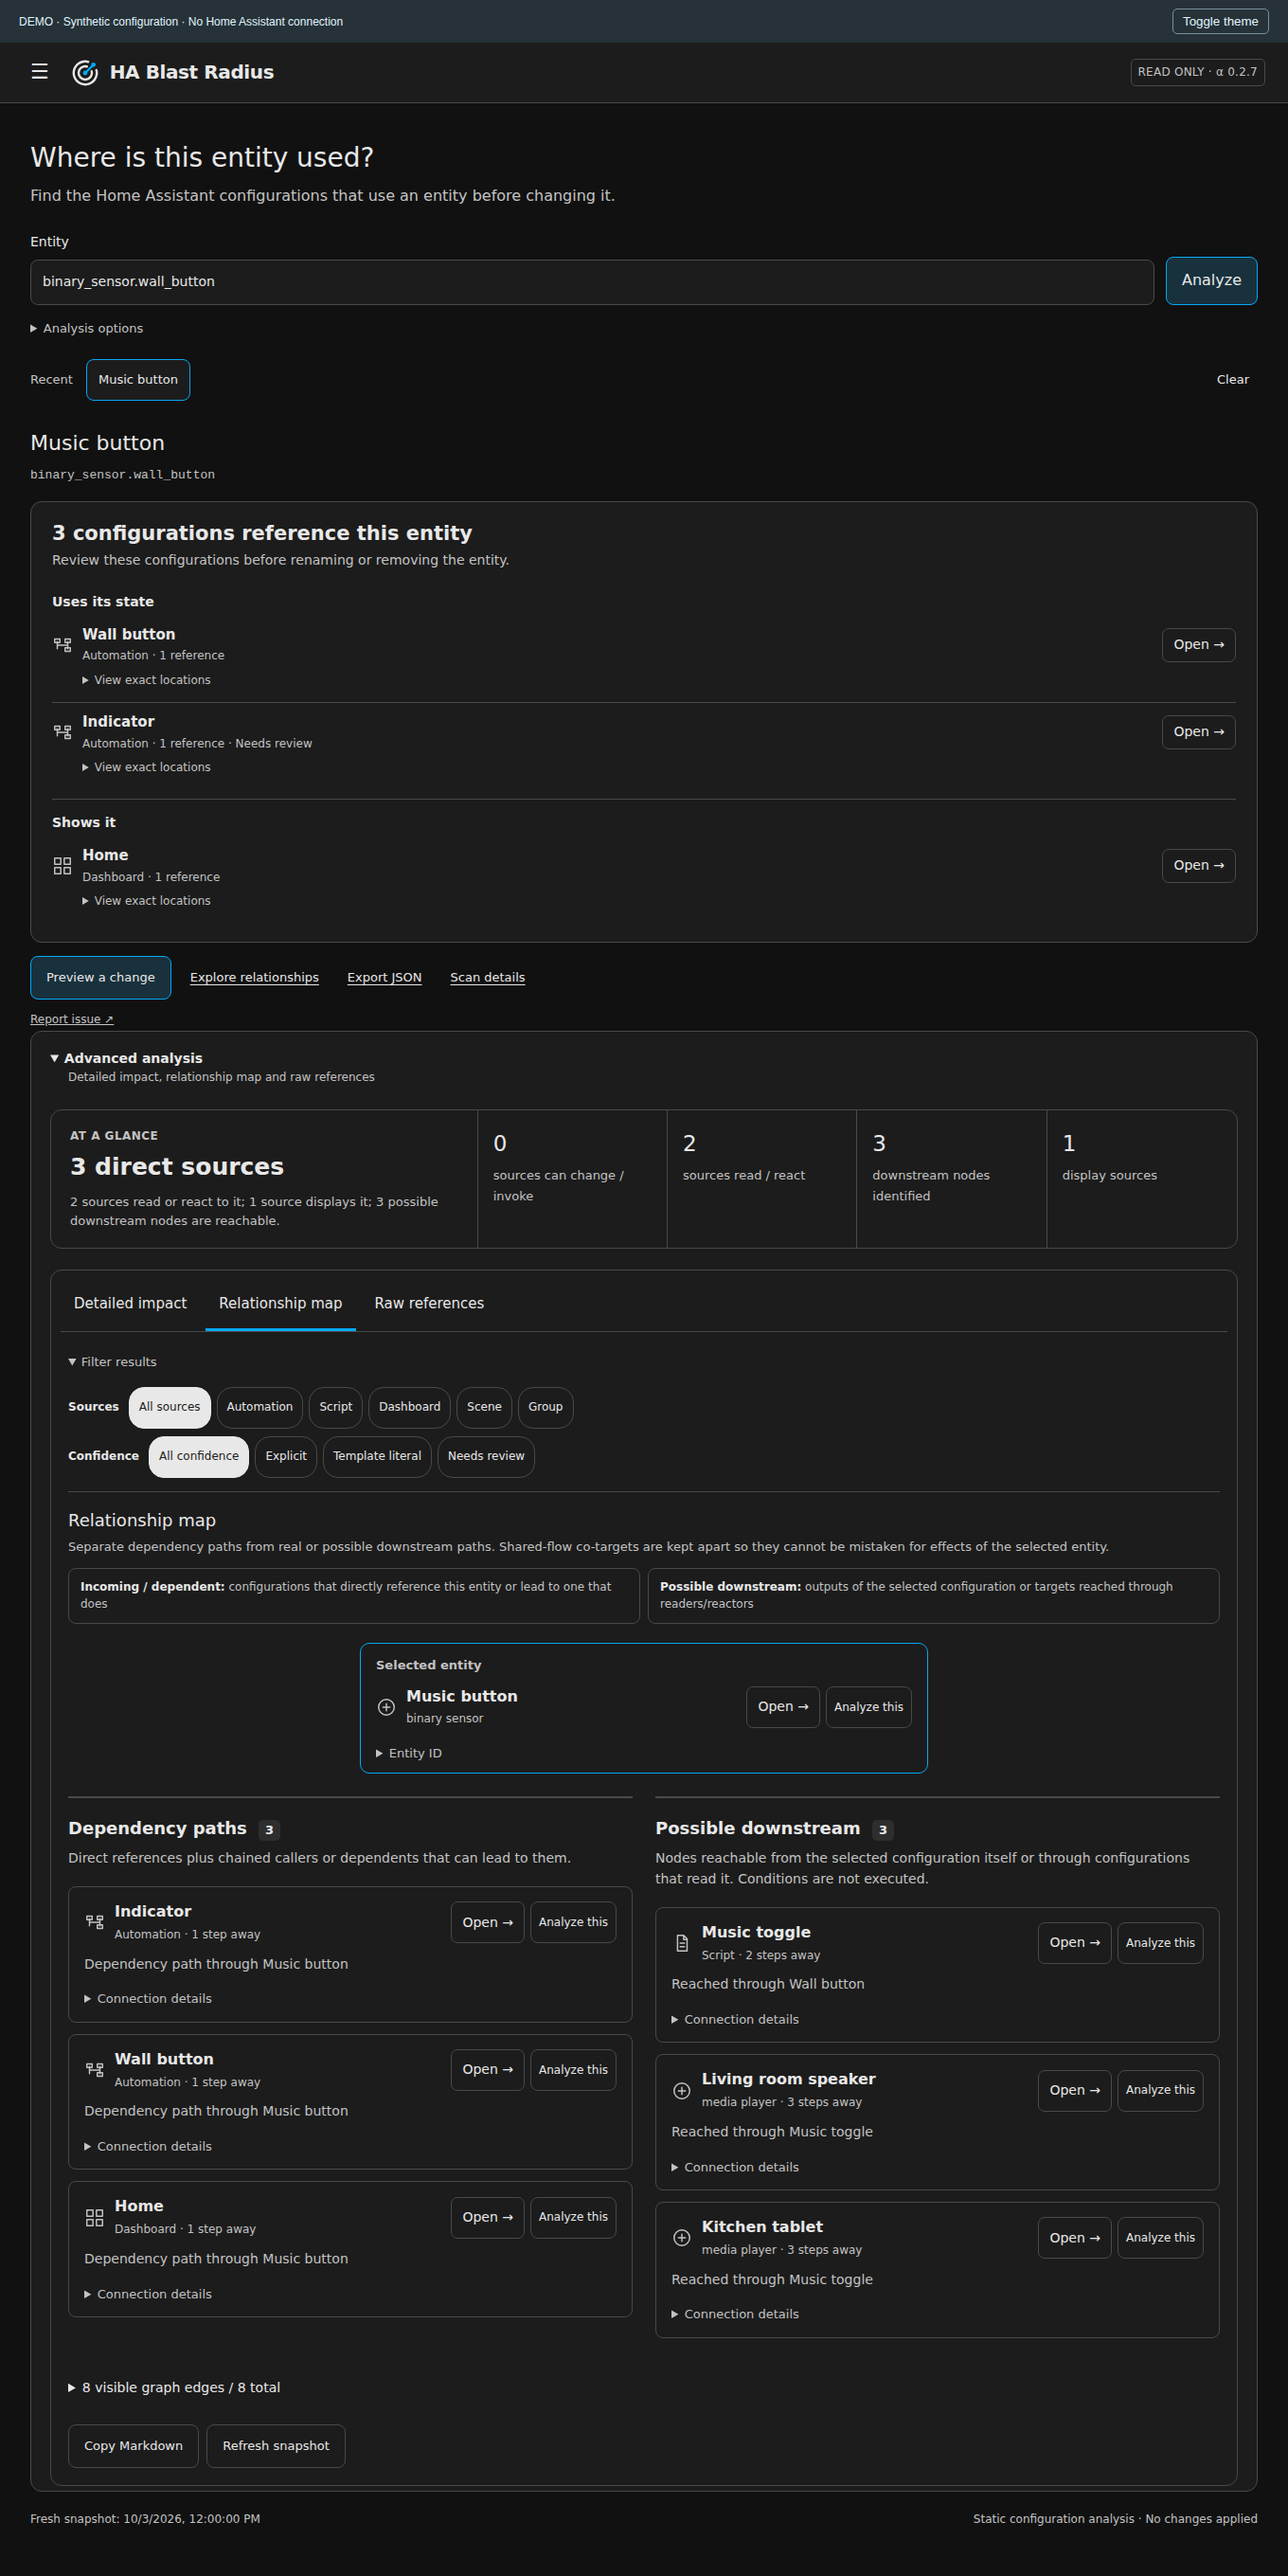
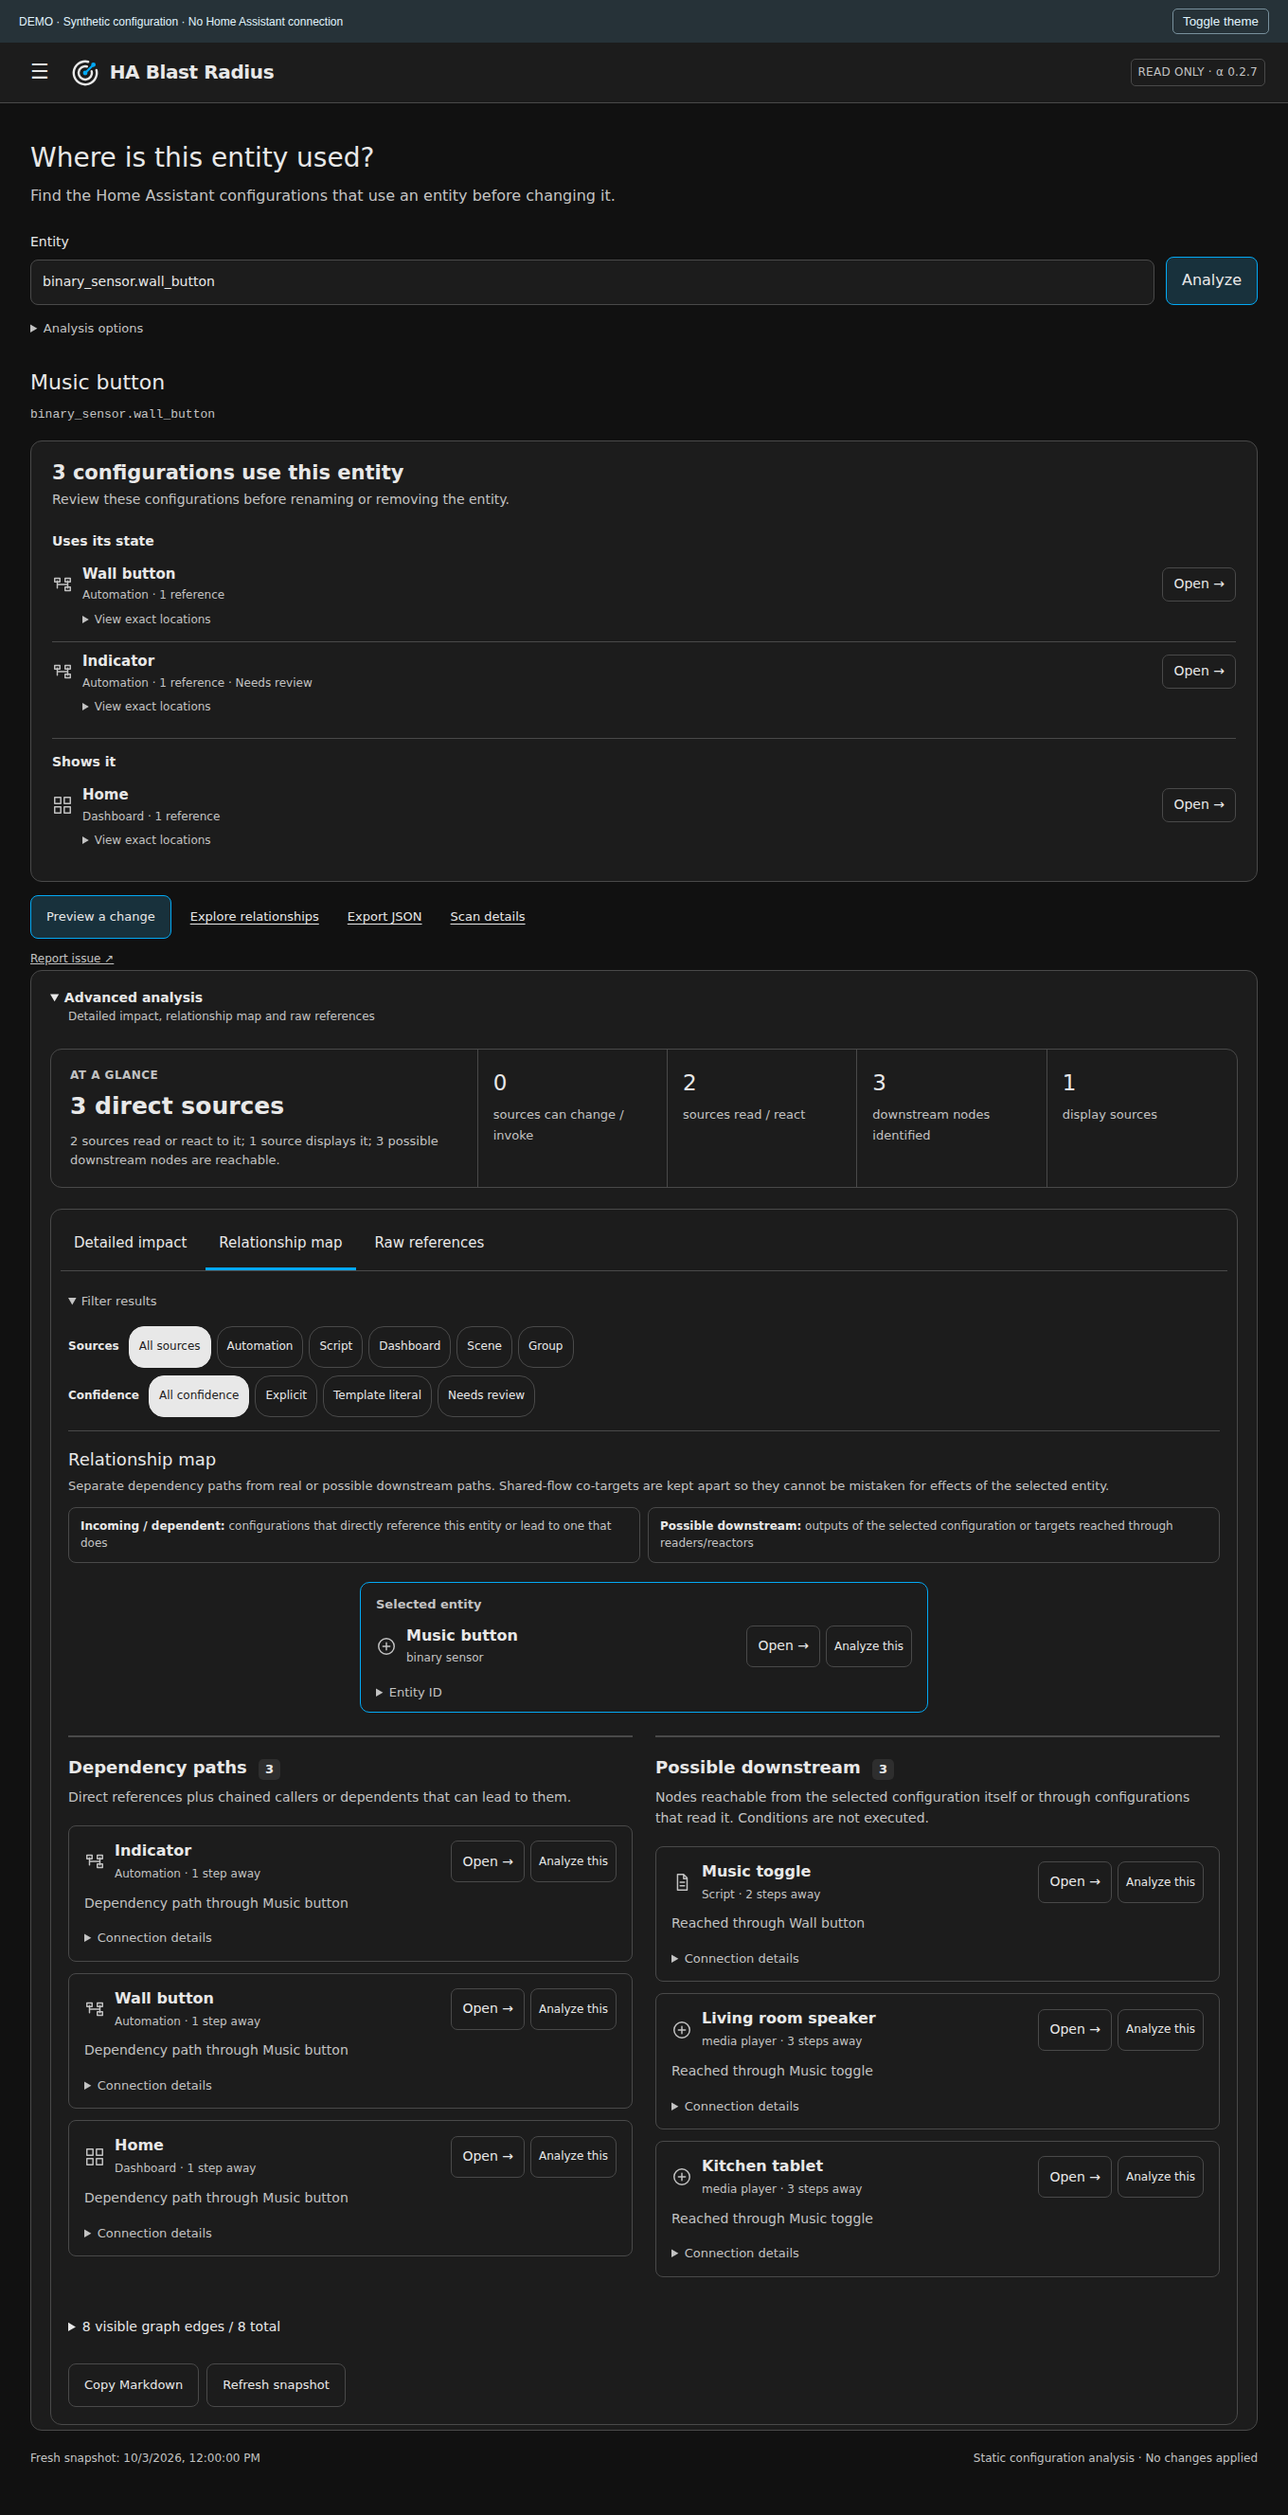
build: sync polished panel bundle and screenshots

diff --git a/custom_components/blast_radius/frontend/blast-radius.js b/custom_components/blast_radius/frontend/blast-radius.js
@@ -754,6 +754,17 @@ var De = {
     max-width: 540px;
     font-size: 13px;
   }
+  .analysis-options-body .clear-history-option {
+    align-self: center;
+    flex-shrink: 0;
+    border: 0;
+    background: transparent;
+    padding: 8px;
+    min-height: 36px;
+    font-size: 12px;
+    text-decoration: underline;
+    text-underline-offset: 3px;
+  }
   .recent-searches {
     display: flex;
     align-items: center;
@@ -1237,6 +1248,7 @@ var De = {
   .plain-source .review-hint {
     display: inline;
     font-size: inherit;
+    white-space: nowrap;
   }
   .plain-source-details {
     margin: 2px 0 0 32px;
@@ -3161,7 +3173,7 @@ var rt = {
     >
       <div class="plain-lead">
         <h3>
-          ${a ? `${a} ${a === 1 ? "configuration references" : "configurations reference"} this entity` : "No direct references found"}
+          ${a ? `${a} ${a === 1 ? "configuration uses" : "configurations use"} this entity` : "No direct references found"}
         </h3>
         <p>
           ${a ? "Review these configurations before renaming or removing the entity." : o ? "No direct uses found in the scanned sources. This configuration has possible outputs; explore relationships for details." : "No direct uses found in the scanned sources. This does not guarantee the entity is unused."}
@@ -3603,9 +3615,15 @@ var rt = {
               Higher depth expands the surrounding dependency graph. Direct
               references do not depend on traversal depth.
             </p>
+            ${this.recentSearches.length ? j`<button
+                    class="clear-history-option"
+                    @click=${this.clearRecentSearches}
+                  >
+                    Clear search history
+                  </button>` : N}
           </div>
         </details>
-        ${this.recentSearches.length ? j`<section
+        ${this.recentSearches.length && (this.recentSearches.length > 1 || !e) ? j`<section
                 class="recent-searches"
                 aria-label="Recent searches"
               >

diff --git a/frontend/src/panel.ts b/frontend/src/panel.ts
@@ -1694,14 +1694,16 @@ export class BlastRadiusPanel extends LitElement {
               Higher depth expands the surrounding dependency graph. Direct
               references do not depend on traversal depth.
             </p>
-            ${this.recentSearches.length
-              ? html`<button
-                  class="clear-history-option"
-                  @click=${this.clearRecentSearches}
-                >
-                  Clear search history
-                </button>`
-              : nothing}
+            ${
+              this.recentSearches.length
+                ? html`<button
+                    class="clear-history-option"
+                    @click=${this.clearRecentSearches}
+                  >
+                    Clear search history
+                  </button>`
+                : nothing
+            }
           </div>
         </details>
         ${
